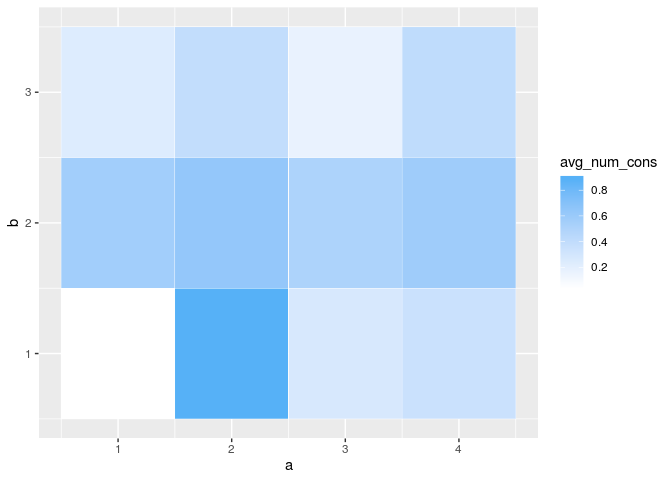
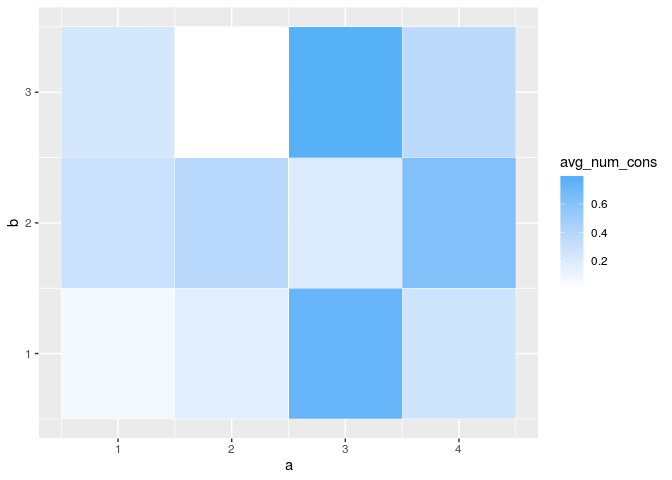
Updated readme to use the new simulation function.

diff --git a/README.md b/README.md
@@ -22,12 +22,12 @@ devtools::install_github('tbilab/bisbmsim')
 library(bisbmsim)
 
 library(tidyverse)
-#> ── Attaching packages ────────────────────────────────────────────────────────────────────────────────────────────────────────────────────────────────────────────────────────────────────────────── tidyverse 1.2.1 ──
+#> ── Attaching packages ─────────────────────────────────────────────────────────────────────────────────────────────────────────────────────────────────────────────────────────────────────────────── tidyverse 1.2.1 ──
 #> ✔ ggplot2 3.2.1     ✔ purrr   0.3.2
 #> ✔ tibble  2.1.3     ✔ dplyr   0.8.3
 #> ✔ tidyr   0.8.3     ✔ stringr 1.4.0
 #> ✔ readr   1.3.1     ✔ forcats 0.4.0
-#> ── Conflicts ───────────────────────────────────────────────────────────────────────────────────────────────────────────────────────────────────────────────────────────────────────────────── tidyverse_conflicts() ──
+#> ── Conflicts ────────────────────────────────────────────────────────────────────────────────────────────────────────────────────────────────────────────────────────────────────────────────── tidyverse_conflicts() ──
 #> ✖ dplyr::filter() masks stats::filter()
 #> ✖ dplyr::lag()    masks stats::lag()
 library(purrr)
@@ -76,30 +76,25 @@ ggplot(Lambda, aes(x = a, y = b)) +
 ## Now we can begin simulation
 
 ``` r
-all_node_pairs <- expand.grid(
-  a = 1:N_a,
-  b = 1:N_b
-) %>% 
-  # Grab the group membership for each node
-  mutate(
-    a_group = b_a[a],
-    b_group = b_b[b]
-  ) %>% 
-  inner_join(
-    Lambda,
-    by = c('a_group' = 'a', 'b_group' = 'b')
-  ) %>% 
-  mutate(
-    num_connections = rpois(n(), lambda = avg_num_cons)
-  )
+all_node_pairs <- draw_from_model(b_a, b_b, Lambda)
+all_node_pairs %>% head()
+#> # A tibble: 6 x 5
+#>       a     b a_group b_group num_edges
+#>   <int> <int>   <int>   <int>     <int>
+#> 1     1     1       1       1         0
+#> 2     2     1       2       1         0
+#> 3     3     1       3       1         1
+#> 4     4     1       4       1         0
+#> 5     5     1       1       1         0
+#> 6     6     1       2       1         0
 ```
 
 Plot results and compare with the generating lambda matrix.
 
 ``` r
 all_node_pairs %>% 
-  mutate(num_connections = ifelse(num_connections >= 1, 1, 0)) %>% 
-  gather(key = 'type', value = 'connections', avg_num_cons, num_connections) %>% 
+  mutate(num_edges = ifelse(num_edges >= 1, 1, 0)) %>% 
+  gather(key = 'type', value = 'connections', num_edges) %>% 
   arrange(a_group, b_group) %>% 
   ggplot(aes(x = reorder(a, a_group), y = reorder(b, b_group))) +
   geom_tile(aes(fill = connections) ) +
